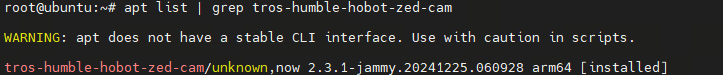
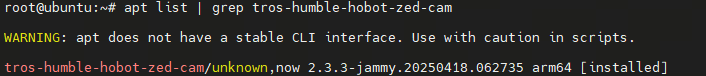
feat(05_Robot_development): update hobot_zed_cam(V2.3.3)

diff --git a/docs/05_Robot_development/03_boxs/function/hobot_stereonet.md b/docs/05_Robot_development/03_boxs/function/hobot_stereonet.md
@@ -186,7 +186,7 @@ height_min:=-10.0 height_max:=10.0 pc_max_depth:=5.0 save_image_all:=True
 
 ![zed_cam](/../static/img/05_Robot_development/03_boxs/function/image/box_adv/zed_cam.png)
 
-- ZED的启动依赖于`hobot_zed_cam`功能包，确认功能包已经安装，版本在2.3.1及以上，通过ssh连接RDK X5，执行以下命令：
+- ZED的启动依赖于`hobot_zed_cam`功能包，确认功能包已经安装，版本在2.3.3及以上，通过ssh连接RDK X5，执行以下命令：
 
 ```shell
 apt list | grep tros-humble-hobot-zed-cam
@@ -194,13 +194,22 @@ apt list | grep tros-humble-hobot-zed-cam
 
 ![zed_cam_version](/../static/img/05_Robot_development/03_boxs/function/image/box_adv/zed_cam_version.png)
 
+- 如果版本较久，请执行如下命令进行更新：
+
+```shell
+apt update
+apt upgrade
+```
+
 - 将ZED相机通过USB连接RDK X5，然后启动双目算法，通过ssh连接RDK X5，执行以下命令：
+
+**注意：运行ZED相机RDK X5板子一定要联网，因为ZED需要联网下载标定文件**
 
 ```shell
 ros2 launch hobot_zed_cam test_stereo_zed_rectify.launch.py \
 resolution:=720p dst_width:=640 dst_height:=352 \
-stereonet_model_file_path:=/opt/tros/humble/share/hobot_stereonet/config/DStereoV2.2.bin postprocess:=v3 \
-render_type:=1 height_min:=-10.0 height_max:=10.0 pc_max_depth:=5.0 
+stereonet_model_file_path:=/opt/tros/humble/share/hobot_stereonet/config/x5baseplus_alldata_woIsaac.bin postprocess:=v2 \
+render_type:=1 render_need_filter:=False height_min:=-10.0 height_max:=10.0 pc_max_depth:=5.0 
 ```
 
 - 通过网页端查看深度图，在浏览器输入 http://ip:8000 ，更多可视化相关的内容请参考前文
